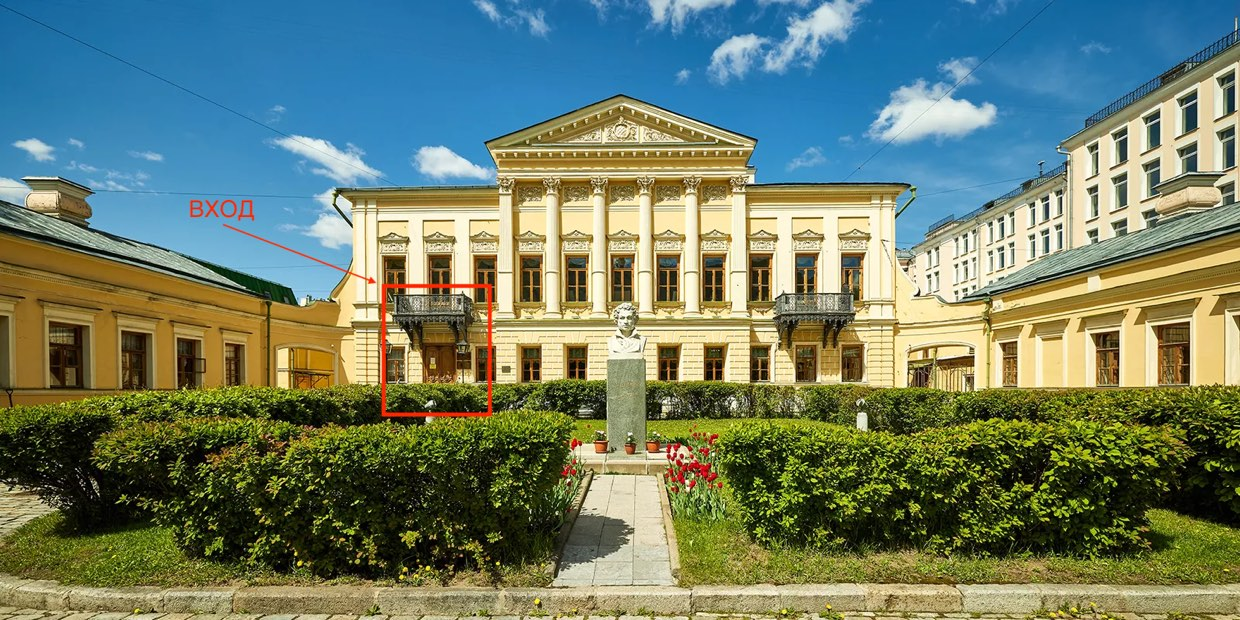
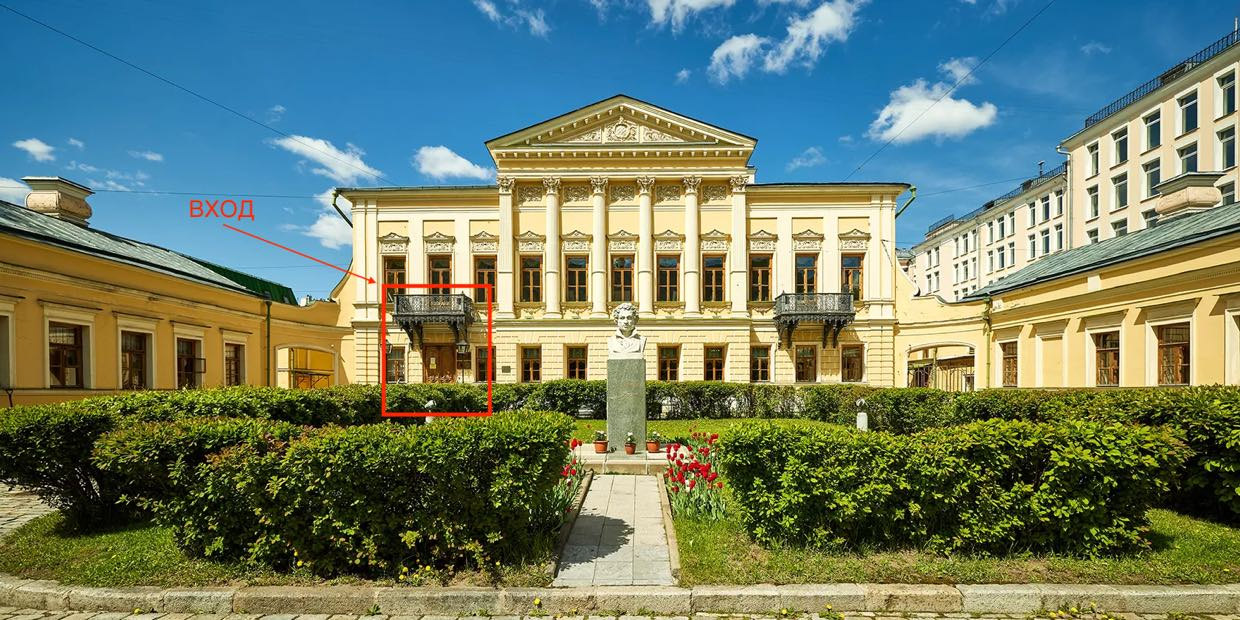
Иконки в расписании, фото под отсчётом, сердечко в календаре, вычитка
Кнопка Данилы переведена на WhatsApp (+7 999 817-30-48), Анастасии
осталась в Telegram; обе подписаны явно — открываются разные
приложения, и гость должен понимать, куда попадёт.

В расписание добавлены контурные иконки инлайновым SVG: бокалы,
портик, обручальные кольца, столик, машина с сердечком. Ноль
дополнительных запросов.

Под отсчётом вместо сплошной черноты фотография пары под тёмной
вуалью. Снимок кадрирован, чтобы убрать чёрную плёночную рамку —
она проступала по краям секции и читалась как дефект вёрстки.

В календаре овал из border-radius заменён настоящим контуром сердца.

Фото площадки пережато с 285 до 200 КБ без видимых потерь.

Вычитка текстов: убрана тавтология «приглашение… приглашаем»,
исправлено рассогласование управления «ждём и готовимся к дню»,
три пункта ограничений больше не начинаются с «запрещ-» подряд,
убраны канцеляризмы «локация» и «мероприятие». «Тайминг» стал
«Расписанием дня», «Анкета гостя» — «Подтвердите присутствие»:
анкеты на странице нет.

diff --git a/index.html b/index.html
@@ -45,7 +45,7 @@
   <div class="wrap">
     <h2 class="h2">Дорогие близкие!</h2>
     <hr class="rule">
-    <p class="body-text">Это официальное приглашение на нашу свадьбу! Приглашаем вас стать частью нашего знаменательного события — торжественной церемонии в доме Пушкина. После церемонии вас будет ждать вкусный ужин в ресторане недалеко от локации.</p>
+    <p class="body-text">Это официальное приглашение на нашу свадьбу! А получили вы его потому, что мы очень хотим видеть вас рядом в этот день — на торжественной церемонии в доме Пушкина. После неё всех ждёт вкусный ужин в ресторане неподалёку.</p>
     <hr class="rule">
   </div>
 </section>
@@ -60,7 +60,7 @@
       </thead>
       <tbody>
         <tr><td></td><td></td><td></td><td>1</td><td>2</td><td>3</td><td>4</td></tr>
-        <tr><td>5</td><td>6</td><td>7</td><td>8</td><td class="is-wedding">9</td><td>10</td><td>11</td></tr>
+        <tr><td>5</td><td>6</td><td>7</td><td>8</td><td class="is-wedding"><span class="heart"><svg viewBox="0 0 40 40" aria-hidden="true" focusable="false"><path d="M20 34.5S4 25.4 4 15.6C4 10.5 7.8 6.9 12.2 6.9c3.1 0 6 1.8 7.8 4.7 1.8-2.9 4.7-4.7 7.8-4.7 4.4 0 8.2 3.6 8.2 8.7 0 9.8-16 18.9-16 18.9z"/></svg><span class="heart-num">9</span></span></td><td>10</td><td>11</td></tr>
         <tr><td>12</td><td>13</td><td>14</td><td>15</td><td>16</td><td>17</td><td>18</td></tr>
         <tr><td>19</td><td>20</td><td>21</td><td>22</td><td>23</td><td>24</td><td>25</td></tr>
         <tr><td>26</td><td>27</td><td>28</td><td>29</td><td>30</td><td>31</td><td></td></tr>
@@ -89,15 +89,15 @@
 <!-- 5. Тайминг -->
 <section class="section">
   <div class="wrap">
-    <h2 class="h2">Тайминг</h2>
+    <h2 class="h2">Расписание дня</h2>
     <hr class="rule">
     <table class="timing">
       <tbody>
-        <tr><td>Сбор гостей у входа</td><td>14:45</td></tr>
-        <tr><td>Вход в дом Пушкина</td><td>15:00</td></tr>
-        <tr><td>Церемония регистрации</td><td>15:30</td></tr>
-        <tr><td>Ужин в ресторане</td><td>17:00</td></tr>
-        <tr><td>Завершение вечера</td><td>20:00</td></tr>
+        <tr><td class="tico-cell"><svg class="tico" viewBox="0 0 40 40" aria-hidden="true" focusable="false"><g transform="rotate(-13 14 22)"><path d="M8 7h12l-1.9 9.4a4.1 4.1 0 0 1-8.2 0z"/><path d="M14 20.6V30"/><path d="M10.5 30h7"/></g><g transform="rotate(13 26 22)"><path d="M20 7h12l-1.9 9.4a4.1 4.1 0 0 1-8.2 0z"/><path d="M26 20.6V30"/><path d="M22.5 30h7"/></g></svg></td><td>Сбор гостей у входа</td><td>14:45</td></tr>
+        <tr><td class="tico-cell"><svg class="tico" viewBox="0 0 40 40" aria-hidden="true" focusable="false"><path d="M5 16 20 6l15 10"/><path d="M7.5 16h25"/><path d="M11 16v14M17 16v14M23 16v14M29 16v14"/><path d="M6 30h28"/><path d="M6 33h28"/></svg></td><td>Вход в дом Пушкина</td><td>15:00</td></tr>
+        <tr><td class="tico-cell"><svg class="tico" viewBox="0 0 40 40" aria-hidden="true" focusable="false"><circle cx="15" cy="24" r="8.5"/><circle cx="26" cy="19" r="8.5"/><path d="M23.4 8.4 26 4l2.6 4.4"/></svg></td><td>Церемония регистрации</td><td>15:30</td></tr>
+        <tr><td class="tico-cell"><svg class="tico" viewBox="0 0 40 40" aria-hidden="true" focusable="false"><path d="M16.8 5h4.4v3l1.9 3v7h-8.2v-7l1.9-3z"/><circle cx="28" cy="15" r="3.4"/><path d="M28 18.4V21"/><path d="M5 22h30"/><path d="M9 22l-2 13M31 22l2 13"/><path d="M20 22v13"/></svg></td><td>Ужин в ресторане</td><td>17:00</td></tr>
+        <tr><td class="tico-cell"><svg class="tico" viewBox="0 0 40 40" aria-hidden="true" focusable="false"><path d="M5 31v-6l4.5-6.5h17L32 25v6"/><path d="M11.5 18.5V25M21.5 18.5V25"/><path d="M5 31h27"/><circle cx="12" cy="32.5" r="3.2"/><circle cx="27" cy="32.5" r="3.2"/><path d="M19 12.4s-4-2.6-4-5.1a2.4 2.4 0 0 1 4-1.7 2.4 2.4 0 0 1 4 1.7c0 2.5-4 5.1-4 5.1z"/></svg></td><td>Завершение вечера</td><td>20:00</td></tr>
       </tbody>
     </table>
     <p class="note">Просьба не опаздывать — церемония длится всего 10 минут</p>
@@ -109,7 +109,7 @@
   <div class="wrap">
     <h2 class="h2">Дресс-код</h2>
     <hr class="rule">
-    <p class="body-text">Мы очень ждём и готовимся к нашему незабываемому дню! Поддержите нас вашими улыбками и объятиями, а также красивыми вечерними нарядами.</p>
+    <p class="body-text">Мы очень ждём этот день и старательно к нему готовимся! Поддержите нас вашими улыбками и объятиями, а также красивыми вечерними нарядами.</p>
     <hr class="rule">
   </div>
 </section>
@@ -131,10 +131,11 @@
   <div class="wrap">
     <h2 class="h2">Ограничения</h2>
     <hr class="rule">
+    <p class="body-text rules-intro">На территории библиотеки нельзя:</p>
     <ul class="rules">
-      <li>На территории библиотеки запрещается распитие алкогольных напитков.</li>
-      <li>Запрещена церемония «битья бокалов и фужеров на счастье».</li>
-      <li>Запрещено использование в поздравлении монет, риса, хлопушек, конфетти, лепестков цветов.</li>
+      <li>распивать алкогольные напитки;</li>
+      <li>проводить церемонию «битья бокалов на счастье»;</li>
+      <li>использовать в поздравлениях монеты, рис, хлопушки, конфетти и лепестки цветов.</li>
     </ul>
     <p class="parking">Автомобиль можно оставить на ближайшей платной городской парковке.</p>
   </div>
@@ -145,7 +146,7 @@
   <div class="wrap">
     <h2 class="h2">Контакты</h2>
     <hr class="rule">
-    <p class="body-text">По всем вопросам, связанным с мероприятием, вы можете обратиться к нам.</p>
+    <p class="body-text">Если останутся вопросы — звоните, будем рады помочь.</p>
     <p class="contact-name">Данила</p>
     <p class="contact-phone">+7 933 277-42-29</p>
     <a class="btn" href="tel:+79332774229">Позвонить</a>
@@ -155,12 +156,12 @@
 <!-- 10. Анкета гостя -->
 <section class="section">
   <div class="wrap">
-    <h2 class="h2">Анкета гостя</h2>
+    <h2 class="h2">Подтвердите присутствие</h2>
     <hr class="rule">
     <p class="body-text">Пожалуйста, подтвердите своё присутствие до:</p>
     <p class="deadline">16 СЕНТЯБРЯ 2026</p>
-    <a class="btn" href="https://t.me/xeoza" target="_blank" rel="noopener">Написать Даниле</a>
-    <a class="btn" href="https://t.me/prodnasty" target="_blank" rel="noopener">Написать Анастасии</a>
+    <a class="btn" href="https://wa.me/79998173048" target="_blank" rel="noopener">Написать Даниле в WhatsApp</a>
+    <a class="btn" href="https://t.me/prodnasty" target="_blank" rel="noopener">Написать Анастасии в Telegram</a>
   </div>
 </section>
 

diff --git a/styles.css b/styles.css
@@ -44,7 +44,14 @@ img { max-width: 100%; display: block; }
 .section--alt { background-color: var(--paper-alt); }
 
 .section--night {
+  position: relative;
   background-color: var(--night);
+  background-image:
+    linear-gradient(rgba(14, 13, 12, 0.72), rgba(14, 13, 12, 0.72)),
+    url("assets/timer-bg.jpg");
+  background-size: auto, cover;
+  background-position: center, center 22%;
+  background-repeat: no-repeat;
   color: #ddd6cc;
 }
 
@@ -210,20 +217,37 @@ img { max-width: 100%; display: block; }
 }
 
 .calendar .is-wedding {
-  position: relative;
   color: var(--wine);
   font-weight: 700;
+  padding: 0;
 }
 
-.calendar .is-wedding::before {
-  content: "";
+.calendar .heart {
+  position: relative;
+  display: inline-flex;
+  align-items: center;
+  justify-content: center;
+  width: 38px;
+  height: 38px;
+}
+
+.calendar .heart svg {
   position: absolute;
-  inset: 50% auto auto 50%;
-  width: 34px;
-  height: 34px;
+  left: 50%;
+  top: 50%;
+  width: 38px;
+  height: 38px;
   transform: translate(-50%, -50%);
-  border: 1.5px solid var(--wine);
-  border-radius: 50% 50% 50% 50% / 60% 60% 40% 40%;
+  fill: none;
+  stroke: var(--wine);
+  stroke-width: 1.7;
+  stroke-linejoin: round;
+}
+
+/* цифра садится чуть выше центра — у сердца низ острый */
+.calendar .heart-num {
+  position: relative;
+  padding-bottom: 3px;
 }
 
 /* ---------- Тайминг ---------- */
@@ -240,9 +264,25 @@ img { max-width: 100%; display: block; }
   vertical-align: middle;
 }
 
-.timing td:first-child {
+.timing td:nth-child(2) {
   text-align: left;
   padding-right: 18px;
+}
+
+.timing .tico-cell {
+  width: 46px;
+  padding-right: 12px;
+  line-height: 0;
+}
+
+.timing .tico {
+  width: 34px;
+  height: 34px;
+  fill: none;
+  stroke: var(--ink);
+  stroke-width: 1.5;
+  stroke-linecap: round;
+  stroke-linejoin: round;
 }
 
 .timing td:last-child {

diff --git a/docs/superpowers/specs/2026-09-09-wedding-invitation-design.md b/docs/superpowers/specs/2026-09-09-wedding-invitation-design.md
@@ -43,6 +43,7 @@ assets/
   cover.jpg         960×1280   пара, сердечко руками (ч/б)
   outro.jpg         960×1280   пара, в шляпе (ч/б)
   venue.jpg         1240×620   фасад дома Пушкина, стрелка «ВХОД» впечатана
+  timer-bg.jpg      1200×1033  фон блока с отсчётом
   og-preview.jpg    1200×630   превью ссылки для мессенджеров
 .nojekyll           отключает обработку Jekyll на Pages
 .gitignore          .DS_Store, .superpowers/
@@ -65,7 +66,8 @@ git, удаление обратимо.
 |---|---|---|
 | `photo_2026-09-09 11.42.30.jpeg` | `assets/cover.jpg` | без изменений (76 КБ) |
 | `photo_2026-09-09 11.42.37.jpeg` | `assets/outro.jpg` | без изменений (96 КБ) |
-| `Пушкина.jpg copy.jpg` | `assets/venue.jpg` | `sips -Z 1240 -s formatOptions 62` → ≈ 285 КБ |
+| `Пушкина.jpg copy.jpg` | `assets/venue.jpg` | `sips -Z 1240 -s formatOptions 48` → ≈ 200 КБ |
+| `Анастасия 0517.jpg` | `assets/timer-bg.jpg` | кадрируется (`-c 3100 3600 --cropOffset 1900 300`), затем `-Z 1200 -s formatOptions 76` → ≈ 200 КБ |
 | `Пушкина.jpg.webp` | не используется | см. «WebP не применяется» ниже |
 
 **WebP не применяется.** `sips` на этой машине собран без записи webp
@@ -146,9 +148,9 @@ Playfair — обе дидоны с высоким контрастом, две 
 
 Заголовок «Дорогие близкие!». Текст:
 
-> Это официальное приглашение на нашу свадьбу! Приглашаем вас стать частью
-> нашего знаменательного события — торжественной церемонии в доме Пушкина.
-> После церемонии вас будет ждать вкусный ужин в ресторане недалеко от локации.
+> Это официальное приглашение на нашу свадьбу! А получили вы его потому, что мы
+> очень хотим видеть вас рядом в этот день — на торжественной церемонии в доме
+> Пушкина. После неё всех ждёт вкусный ужин в ресторане неподалёку.
 
 Персонального обращения по именам нет: ссылка одна на всех гостей,
 персонализировать статический сайт нечем.
@@ -169,7 +171,7 @@ Playfair — обе дидоны с высоким контрастом, две 
 
 Стрелка «ВХОД» и красная рамка уже впечатаны в исходное фото — оверлей не нужен.
 
-### 5. Тайминг
+### 5. Расписание дня
 
 | Время | Пункт |
 |---|---|
@@ -185,15 +187,20 @@ Playfair — обе дидоны с высоким контрастом, две 
 
 ### 6. Дресс-код
 
-> Мы очень ждём и готовимся к нашему незабываемому дню! Поддержите нас вашими
+> Мы очень ждём этот день и старательно к нему готовимся! Поддержите нас вашими
 > улыбками и объятиями, а также красивыми вечерними нарядами.
 
 ### 7. Таймер обратного отсчёта
 
-Тёмная секция на фоне `--night` с бумажной текстурой и линейками. Заголовок
+Секция на фоне фотографии `assets/timer-bg.jpg`, поверх которой лежит тёмная
+вуаль `rgba(14, 13, 12, 0.72)`. Заголовок
 «До свадьбы осталось», под ним четыре колонки: дни, часы, минуты, секунды.
 
-Фотографии под этот блок нет. Тёмная заливка вместо фото выбрана осознанно:
+Снимок светлый — белые футболки на сером фоне, — поэтому белый текст поверх него
+без затемнения нечитаем. Вуаль решает это и сохраняет узнаваемость кадра.
+Исходник кадрируется так, чтобы убрать чёрную плёночную рамку: она проступала по
+краям секции и читалась как дефект вёрстки. Прежде здесь была сплошная тёмная
+заливка, выбранная по такой причине:
 имеющиеся снимки светлые, белый текст поверх них нечитаем, а тёмный разворот
 среди светлых полос даёт тот же ритм, что в референсе.
 
@@ -201,35 +208,44 @@ Playfair — обе дидоны с высоким контрастом, две 
 
 ### 8. Ограничения
 
-Заголовок «Ограничения», три пункта правил дома Пушкина:
+Заголовок «Ограничения», вводная строка «На территории библиотеки нельзя:» и три
+пункта правил дома Пушкина:
 
-- На территории запрещается распитие алкогольных напитков.
-- Запрещена церемония «битья бокалов и фужеров на счастье».
-- Запрещено использование в поздравлении монет, риса, хлопушек, конфетти,
-  лепестков цветов.
+- распивать алкогольные напитки;
+- проводить церемонию «битья бокалов на счастье»;
+- использовать в поздравлениях монеты, рис, хлопушки, конфетти и лепестки цветов.
+
+Формулировка переработана при вычитке: три пункта подряд начинались с «запрещ-»,
+а «бокалов и фужеров» — тавтология, фужер и есть бокал.
 
 Отдельной строкой: «Автомобиль можно оставить на ближайшей платной городской
 парковке».
 
 ### 9. Контакты
 
-Заголовок «Контакты». Текст: «По всем вопросам, связанным с мероприятием, вы
-можете обратиться к нам». Имя **ДАНИЛА**, телефон **+7 933 277-42-29**, кнопка
+Заголовок «Контакты». Текст: «Если останутся вопросы — звоните, будем рады
+помочь». Прежняя формулировка звала «обратиться к нам», хотя контакт указан один,
+и называла свадьбу «мероприятием». Имя **ДАНИЛА**, телефон **+7 933 277-42-29**, кнопка
 «Позвонить» со ссылкой `tel:+79332774229`.
 
 Принадлежность телефона Даниле — допущение, выведенное из `t.me/xeoza`; заказчик
 предупреждён и не возражал.
 
-### 10. Анкета гостя
+### 10. Подтвердите присутствие
 
-Заголовок «Анкета гостя». Текст: «Пожалуйста, подтвердите своё присутствие до:».
+Заголовок «Подтвердите присутствие» — прежняя «Анкета гостя» обещала форму,
+которой на странице нет. Текст: «Пожалуйста, подтвердите своё присутствие до:».
 Дата **16 СЕНТЯБРЯ 2026** крупно. Две бордовые кнопки:
 
-- «Написать Даниле» → `https://t.me/xeoza`
-- «Написать Анастасии» → `https://t.me/prodnasty`
+- «Написать Даниле в WhatsApp» → `https://wa.me/79998173048`
+- «Написать Анастасии в Telegram» → `https://t.me/prodnasty`
 
-Заготовленного текста сообщения нет: `t.me/username?text=` для личных чатов
-Telegram не поддерживает, параметр работает только в share-ссылках.
+Кнопки ведут в разные приложения, поэтому названы явно — иначе гость не знает,
+что откроется. Заготовленного текста сообщения нет: `t.me/username?text=` для
+личных чатов Telegram не поддерживает, параметр работает только в share-ссылках.
+
+Телефон в блоке «Контакты» (+7 933 277-42-29) и номер WhatsApp (+7 999 817-30-48)
+намеренно разные — оба рабочие, так решил заказчик.
 
 ### 11. Завершение
 

diff --git a/README.md b/README.md
@@ -12,7 +12,7 @@
 | `styles.css` | Оформление |
 | `countdown.js` | Обратный отсчёт до церемонии |
 | `tests.html` | Тесты отсчёта — открыть в браузере |
-| `assets/` | Фотографии и превью ссылки |
+| `assets/` | Фотографии, фон отсчёта и превью ссылки |
 
 Сборки нет: что лежит в репозитории, то и отдаётся браузеру.
 
